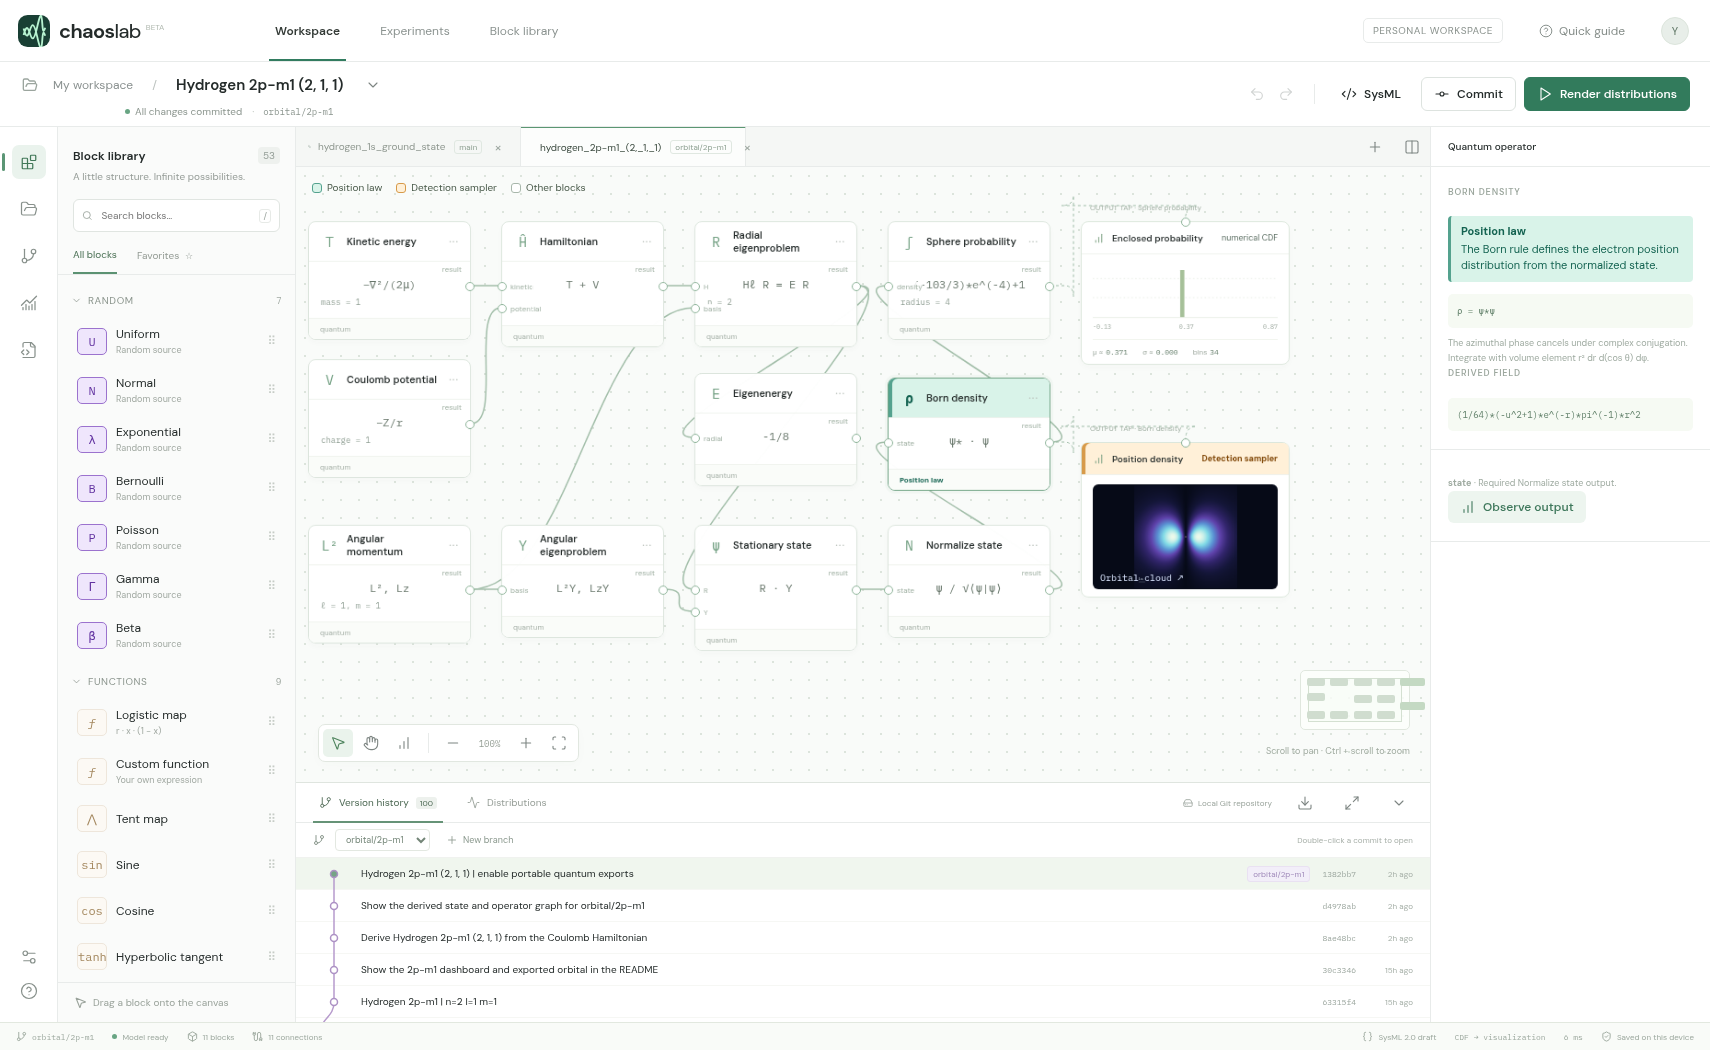
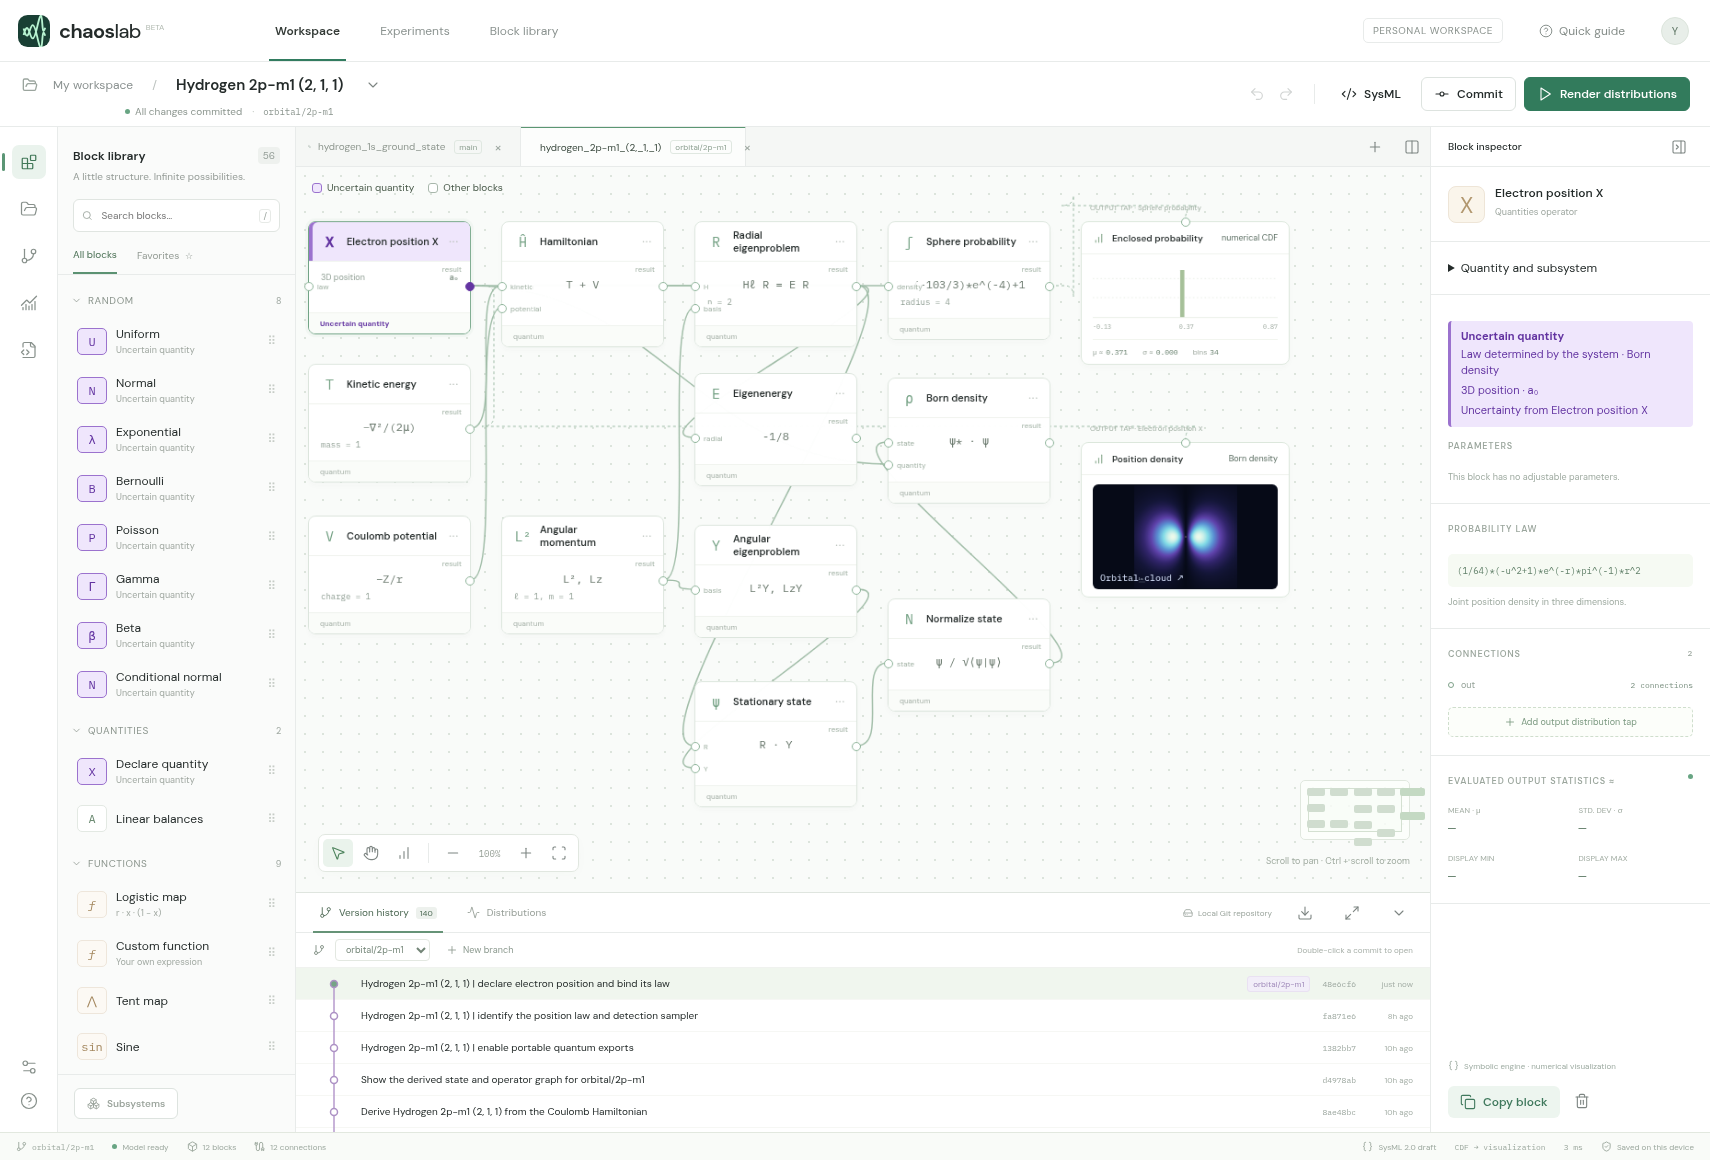
Show the position declaration and its law provider for orbital/2p-m1

diff --git a/studio.py b/studio.py
@@ -10,7 +10,7 @@ import tempfile
 import webbrowser
 
 ROOT = Path(__file__).resolve().parent
-STUDIO_REV = "5cbb600c6ee5baa24d159ddc6c974d68eb68f653"
+STUDIO_REV = "515ba96842af71b90f41019a508548a96e802665"
 STUDIO_REPO = "https://github.com/wa200508/chaos_lab.git"
 
 

diff --git a/README.md b/README.md
@@ -6,7 +6,7 @@ Open **Version history** in Chaos Lab to explore the 20 hydrogen designs in this
 
 The connected Hamiltonian and eigenstate solvers give $E=-1/8$ Hartree for this state.
 
-The purple **Electron position X** block declares the three-dimensional quantity in Bohr radii. Open its inspector to see **Born density** as its law provider. The sphere measurement and spatial tap both observe X. Projected detections draw from the final law; the central slice evaluates the density directly.
+The purple **Electron position X** block declares the three-dimensional quantity in Bohr radii. Open its inspector to see **Born density** as its law provider. The sphere measurement and spatial tap both observe X. Projected detections draw from the final law. The central slice evaluates the density directly.
 
 ![Chaos Lab dashboard with the 2p model, m = 1, open in version history](dashboard.png)
 
